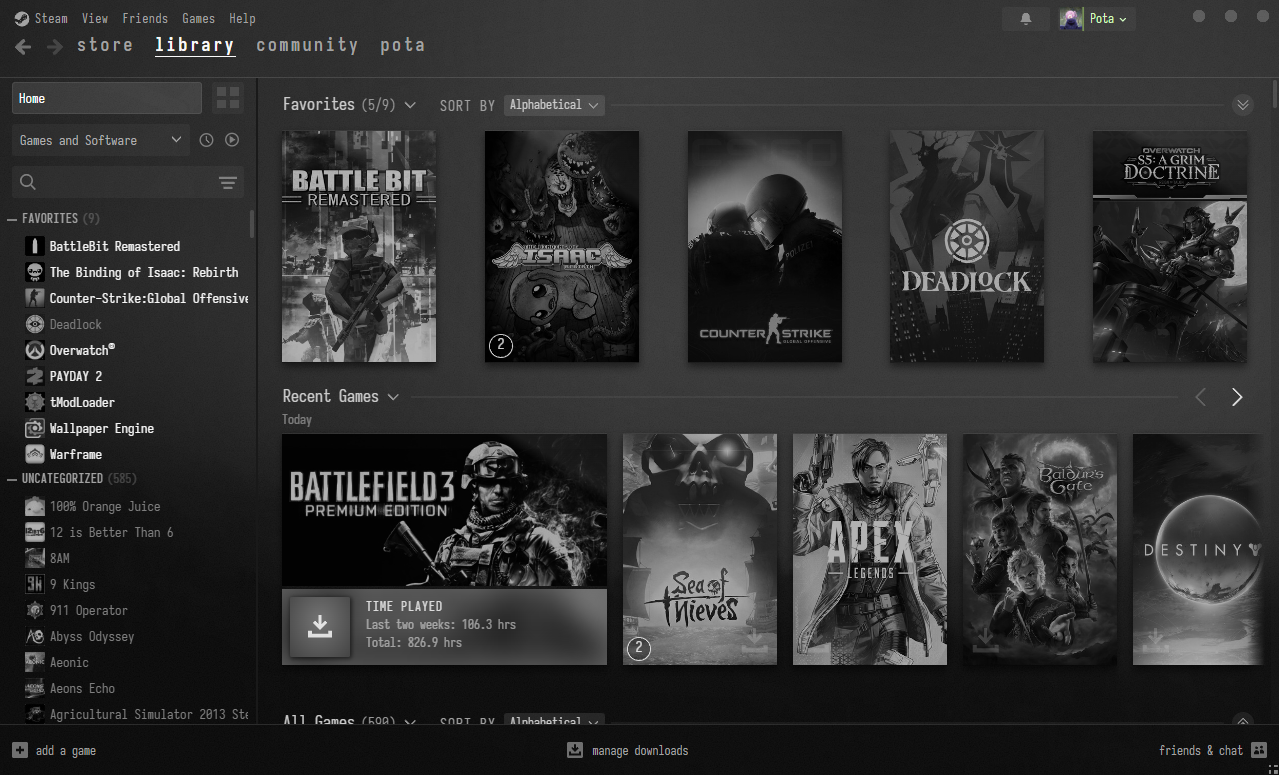
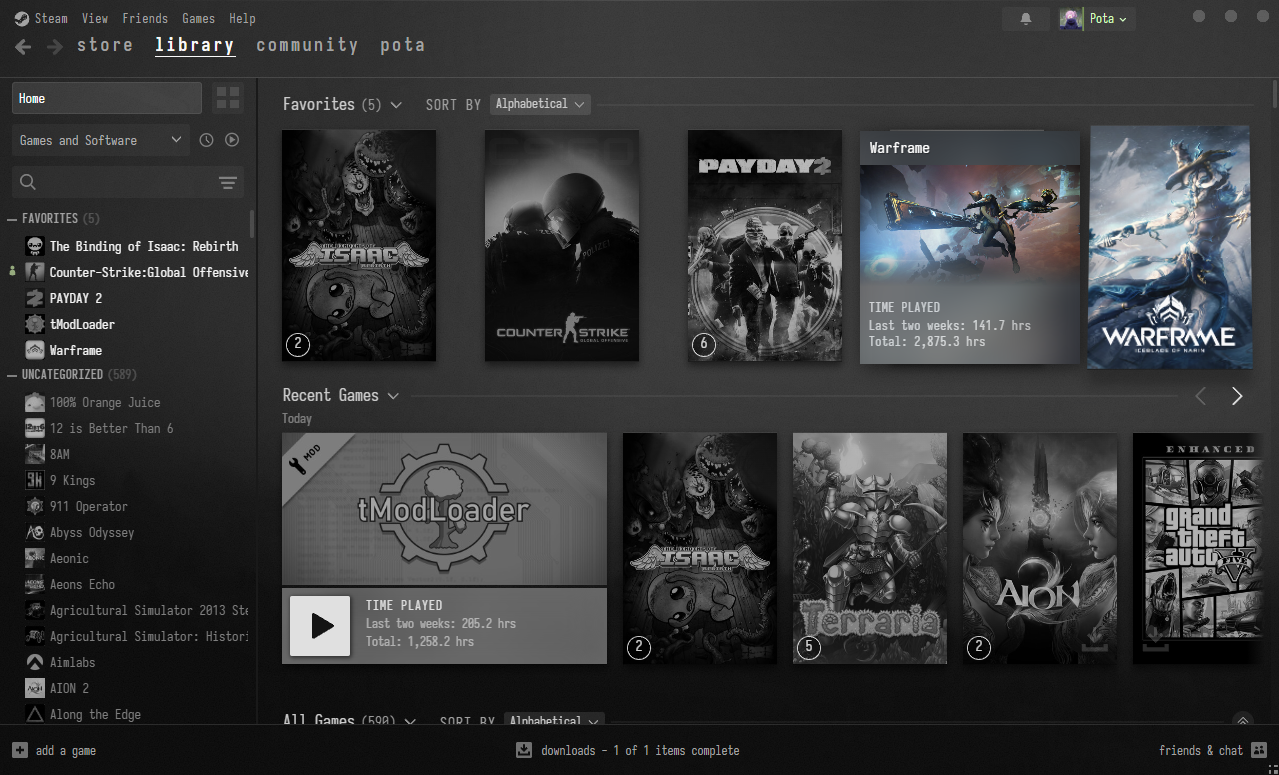
1.3.4: README picture shows a hovered cover in colour
The play square on the newest game's tile is the same light button as Play on a game's page, instead of green.

diff --git a/rice.css b/rice.css
@@ -420,6 +420,15 @@ body .DialogButton.Primary:hover:not(:disabled) {
     fill: var(--ink) !important;
 }
 
+/* the play square on the newest game's tile on the library home: the same light button */
+.DesktopUI .MainPanel .LibraryItemBox .Play {
+    background: var(--button) !important;
+}
+.DesktopUI .MainPanel .LibraryItemBox .Play svg,
+.DesktopUI .MainPanel .LibraryItemBox .Play svg * {
+    fill: var(--ink) !important;
+}
+
 /* Remote Play Together gives each player a colour, set on the element itself. It tells players apart,
    so it stays, turned down like the other colours that mean something */
 .DesktopUI .OverlayPopup :is(.DropSlotNumber, .PlayerController > div) {

diff --git a/README.md b/README.md
@@ -2,7 +2,7 @@
 
 Steam made to look like a tiling-WM Linux rice: a theme for [Millennium](https://steambrew.app). The sibling of [discord-rice](https://github.com/Plyxen/discord-rice), with the same wallpaper, font and greys.
 
-![steam-rice: the library on a misty wallpaper, black-and-white covers, Iosevka, lowercase tabs](assets/library.png)
+![steam-rice: the library on a misty wallpaper, with black-and-white covers and the one under the mouse in colour](assets/library.png)
 
 ![a game's page: its logo on the wallpaper instead of a banner](assets/game.png)
 
@@ -22,7 +22,7 @@ Steam made to look like a tiling-WM Linux rice: a theme for [Millennium](https:/
 
 ## Light
 
-About 60 KB in five files, and it adds 121 style rules to Steam's twenty thousand.
+About 60 KB in five files, and it adds 123 style rules to Steam's twenty thousand.
 
 Steam has almost no colour variables. Its look is some eleven thousand literal colours in its own style sheets, so themes usually override them rule by rule, which gets large and breaks when Valve renames things. This theme doesn't add colour rules at all. `mono.js` reads Steam's style sheets once at start (about 40 ms), rewrites the colours in the text, and gives every window the rewritten sheet in place of the original. Steam runs with the same number of rules as with no theme, and a Steam update needs nothing from you.
 
